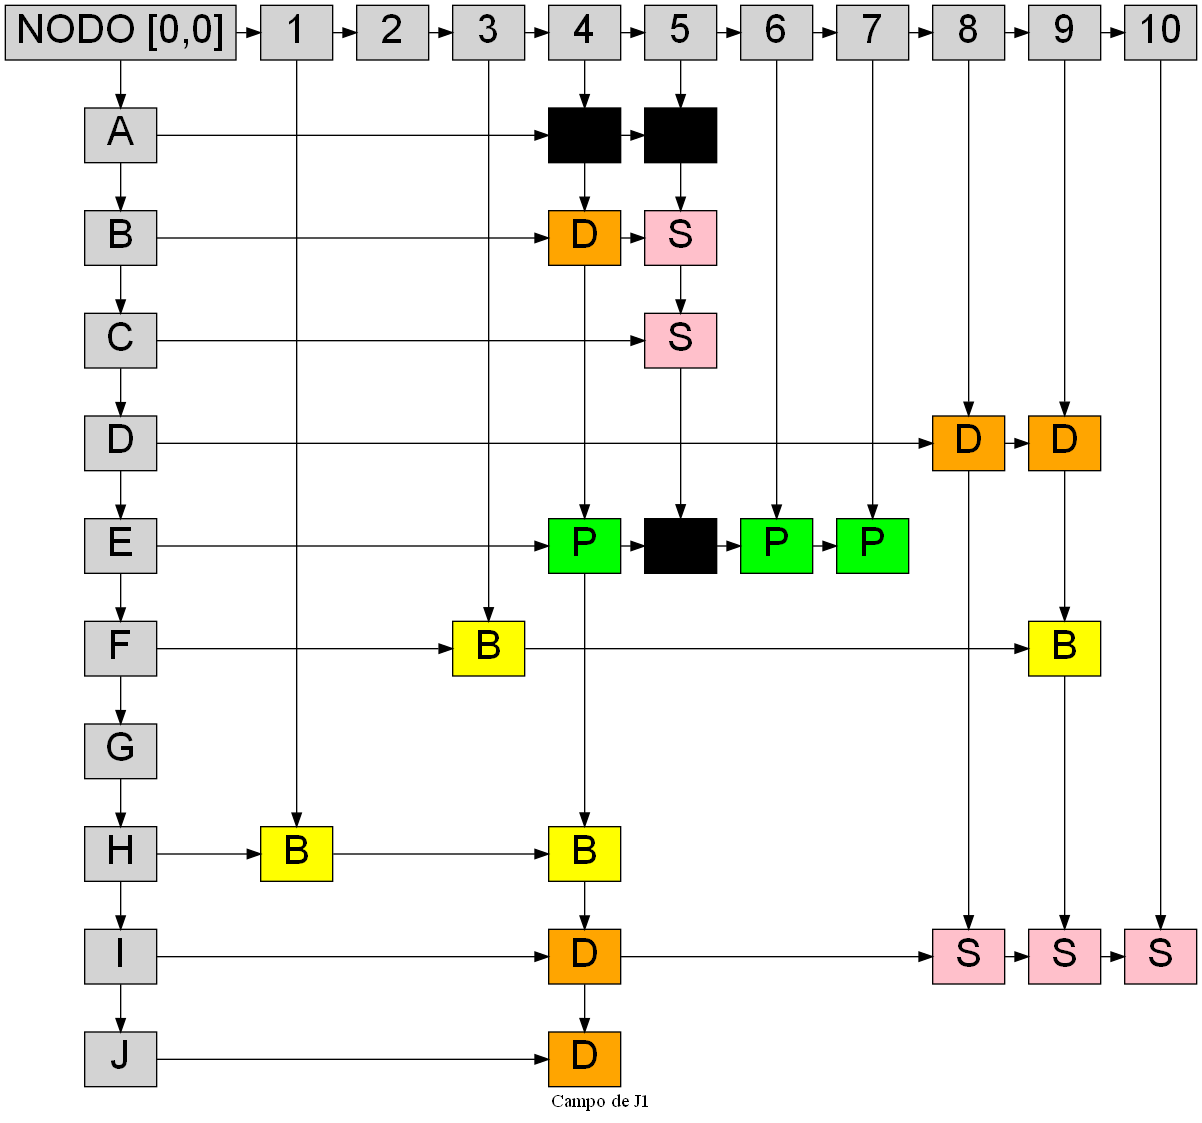
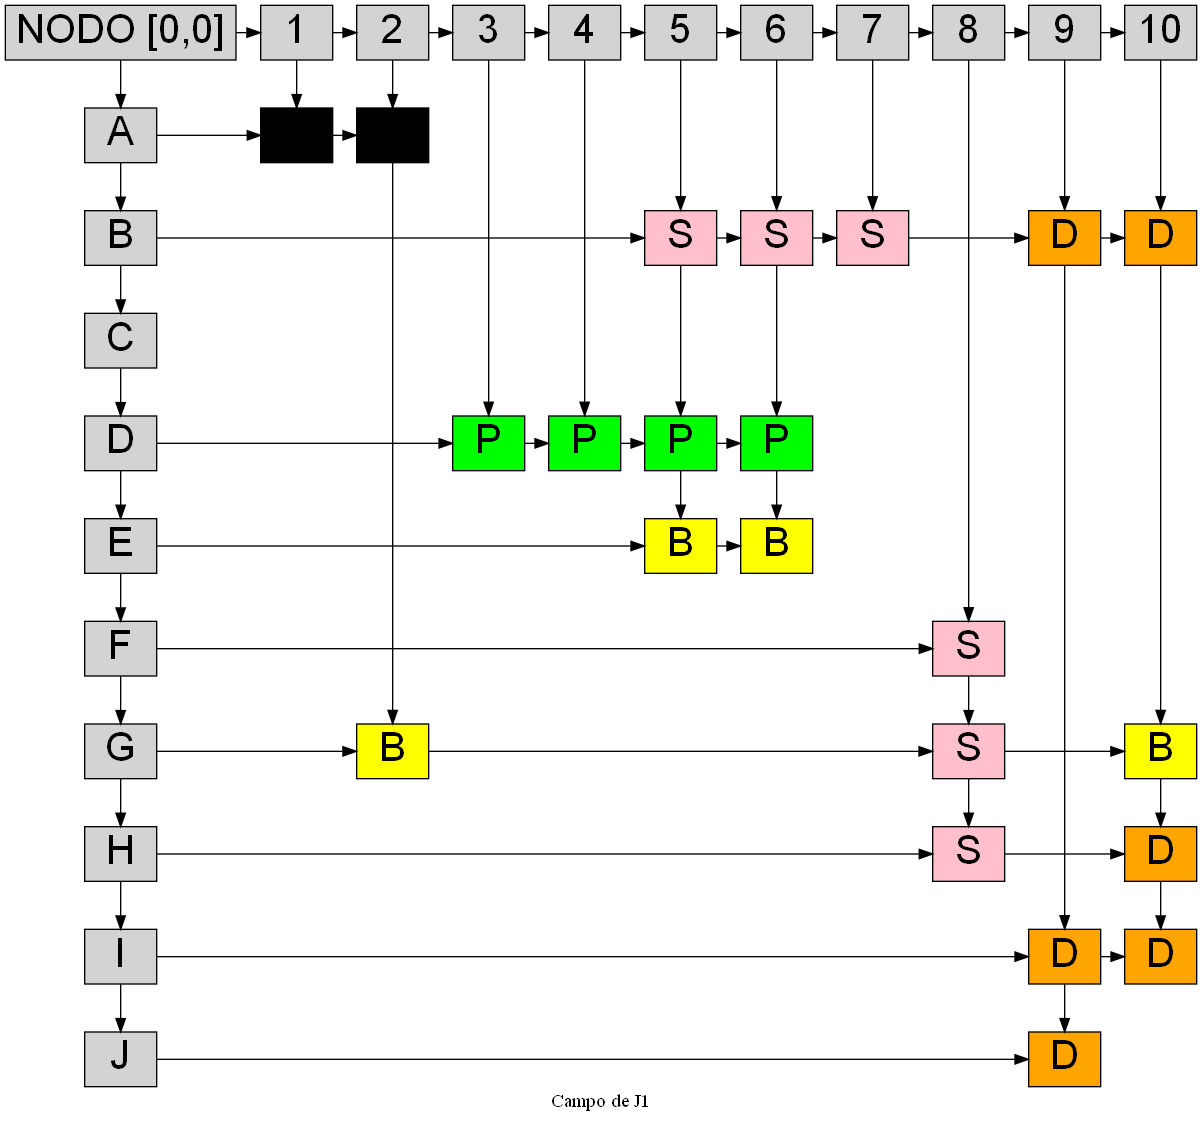
LISTA DE ADYACENCIA CASI LISTA

diff --git a/FASE3 PYTHON/interfaz.py b/FASE3 PYTHON/interfaz.py
@@ -1,4 +1,4 @@
-from ast import Pass
+from ast import Pass, Str
 from importlib.metadata import entry_points
 from logging import root
 from multiprocessing import BufferTooShort
@@ -14,7 +14,7 @@ import tkinter as tk
 from tkinter import ttk
 from tkinter import filedialog
 from tkinter import messagebox, ttk, PhotoImage
-from tkinter import messagebox as mb
+from tkinter import messagebox as MessageBox
 
 from tkinter.ttk import *
 
@@ -38,7 +38,7 @@ SUBMARINO = "S"  # Ocupa una celda
 DESTRUCTOR = "D"  # Ocupa dos celdas
 PRUEBA = "P"
 DESTRUCTOR_VERTICAL = "A"  # Ocupa dos celdas
-DISPARO_FALLADO = "-"
+DISPARO_FALLADO = "X" #ESTE ERA MENOS "-"
 DISPARO_ACERTADO = "X"
 DISPAROS_INICIALES = 2
 CANTIDAD_BARCOS_INICIALES = 1
@@ -68,11 +68,12 @@ photo = PhotoImage(file = "grafos/matrizDispersa2.txt.png")
 photo_subsambple2 = photo.subsample(3,3)
 
 matriz_j1 = []
-
+matriz_j2 = []
+turno_actual = "J1"
 
 # Funciones para los Botones
 def pagv_juego():
-    global matriz_j1
+    global matriz_j1, matriz_j2, turno_actual
     # global photo3, photo_subsambple, photo, photo_subsambple2
     v_juego = Toplevel()
     v_juego.geometry("1000x600")
@@ -82,7 +83,7 @@ def pagv_juego():
 
     
     def nCuadricula(): 
-        global matriz_j1
+        global matriz_j1, matriz_j2
         m = int(caja1.get())
         if (m<10):
             etiqueta['text'] = "Las dimensiones del tablero deben ser mayores a 10"
@@ -105,7 +106,6 @@ def pagv_juego():
             generarGrafo(matriz_j1,JUGADOR_1)
             generarGrafo(matriz_j2,JUGADOR_2)
 
-            # matrizJ1_TEMP = matriz_j1
 
             photo = PhotoImage(file = "grafos/matrizDispersa1.txt.png")
             photo_subsambple = photo.subsample(3,3) 
@@ -116,6 +116,7 @@ def pagv_juego():
             photo_subsambple2 = photo.subsample(3,3)
             lbl_img2.configure(image=photo_subsambple2)
             lbl_img2.image=photo_subsambple2
+            MessageBox.showinfo("GANADOR", "EL JUGADOR 2 ES EL JUGADOR INVITADO") # título, mensaje
         elif (m<= 20 and m>10):
             etiqueta['text'] = "Bien"
             nPortaaviones = 2
@@ -142,6 +143,8 @@ def pagv_juego():
             photo_subsambple2 = photo.subsample(3,3)
             lbl_img2.configure(image=photo_subsambple2)
             lbl_img2.image=photo_subsambple2
+
+            MessageBox.showinfo("GANADOR", "EL JUGADOR 2 ES EL JUGADOR INVITADO") # título, mensaje
         elif (m>=20):
             etiqueta['text'] = "Todo Bien"
             b_m = ((m-1)/10)+1
@@ -229,7 +232,7 @@ def pagv_juego():
 
     def disparar(x, y, matriz) -> bool:
         if es_mar(x, y, matriz):
-            # matriz[y][x] = DISPARO_FALLADO
+            matriz[y][x] = DISPARO_FALLADO
             pass
             return False
         # Si ya había disparado antes, se le cuenta como falla igualmente
@@ -241,19 +244,43 @@ def pagv_juego():
 
 
     def iniciar_disparos():
-        turno_actual = JUGADOR_1
-        # print(matrizJ1_TEMP)
-        x, y = solicitar_coordenadas(turno_actual)
-        if x == 99 or y == 99:
-            pass
-        else: 
+        global turno_actual
+        if turno_actual == JUGADOR_2:
+            x, y = solicitar_coordenadas(turno_actual)
             acertado = disparar(x, y, matriz_j1)
+            if acertado:
+                if todos_los_barcos_hundidos(matriz_j1):
+                    MessageBox.showinfo("GANADOR", "EL JUGADOR 2 GANO") # título, mensaje
+                # grafoAdyacencia(matriz_j1,JUGADOR_2)
             print(acertado)
-            # imprimir_matriz(matriz_j1, False,(turno_actual))
-            if acertado == True:
-                # matriz_j1[x][y] = "X"
-                generarGrafo(matriz_j1,JUGADOR_1)
-                
+
+            generarGrafo(matriz_j1,JUGADOR_1)
+            photo = PhotoImage(file = "grafos/matrizDispersa1.txt.png") 
+            photo_subsambple = photo.subsample(3,3)
+            lbl_img.configure(image=photo_subsambple)
+            lbl_img.image=photo_subsambple
+            
+            turno_actual = JUGADOR_1
+            turno_jugadpr['text'] = "TURNO DEL JUGADOR 1"
+        else:
+            x, y = solicitar_coordenadas(turno_actual)
+            acertado = disparar(x, y, matriz_j2)
+            print(acertado)
+            if acertado:
+                if todos_los_barcos_hundidos(matriz_j1):
+                    MessageBox.showinfo("GANADOR", "EL JUGADOR 1 GANO") # título, mensaje
+                grafoAdyacencia(matriz_j2,JUGADOR_1)
+
+            generarGrafo(matriz_j2,JUGADOR_2)
+            photo = PhotoImage(file = "grafos/matrizDispersa2.txt.png") 
+            photo_subsambple2 = photo.subsample(3,3)
+            lbl_img2.configure(image=photo_subsambple2)
+            lbl_img2.image=photo_subsambple2
+            
+            turno_actual = JUGADOR_2
+            turno_jugadpr['text'] = "TURNO DEL JUGADOR 2"
+        # imprimir_matriz(matriz_j1,True,JUGADOR_1)
+        
         print()
     
     
@@ -866,6 +893,51 @@ def generarGrafo(matriz, jugador):
     # grafo.edge(dot)
     # print(dot.source)  
     # grafo.render('test-output/graphCiudad.gv', view=True)
+
+
+def grafoAdyacencia(matriz, jugador):
+    dot = ""
+    dot = dot + "\ndigraph G {\n"
+    dot = dot + "label=\"Campo de " + jugador + "\";\n"
+    dot = dot + "node [shape=box, style=filled, fontsize=\"30pt\", fontname=\"Arial\"];\n"
+
+    dot = dot + "//agregar nodos\n"
+    letra = "A"
+    contador = 1
+    numeroNodo = 1
+    listaGeneral = []
+    minilista = []
+    for y in matriz:
+        dot = dot + "L" + letra + "[label=\""+ letra + "\"" + "" + "];\n"
+        minilista.append(("L"+letra))
+        for x in y:
+            if x =="X":
+                dot = dot + "N" + str(contador) + "[label=\""+ str(contador) + "\"" + "" + "];\n"
+                numeroNodo += 1
+                minilista.append("N"+(str(contador)))
+            contador += 1
+        contador = 1
+        letra = incrementar_letra(letra)
+        listaGeneral.append(minilista)
+        minilista = []
+        
+    dot = dot + "\n" 
+    # print(listaGeneral)
+    for y in listaGeneral:
+        for x in y:
+            dot = dot + x 
+            if y[-1] == x:
+                pass
+            else: 
+                dot = dot + "->"
+        dot = dot + "\n" 
+    
+    dot = "\n" +dot + "\n"  
+    dot = dot + "}\n"
+    print(dot)
+    
+    
+    print()
 
 
 
